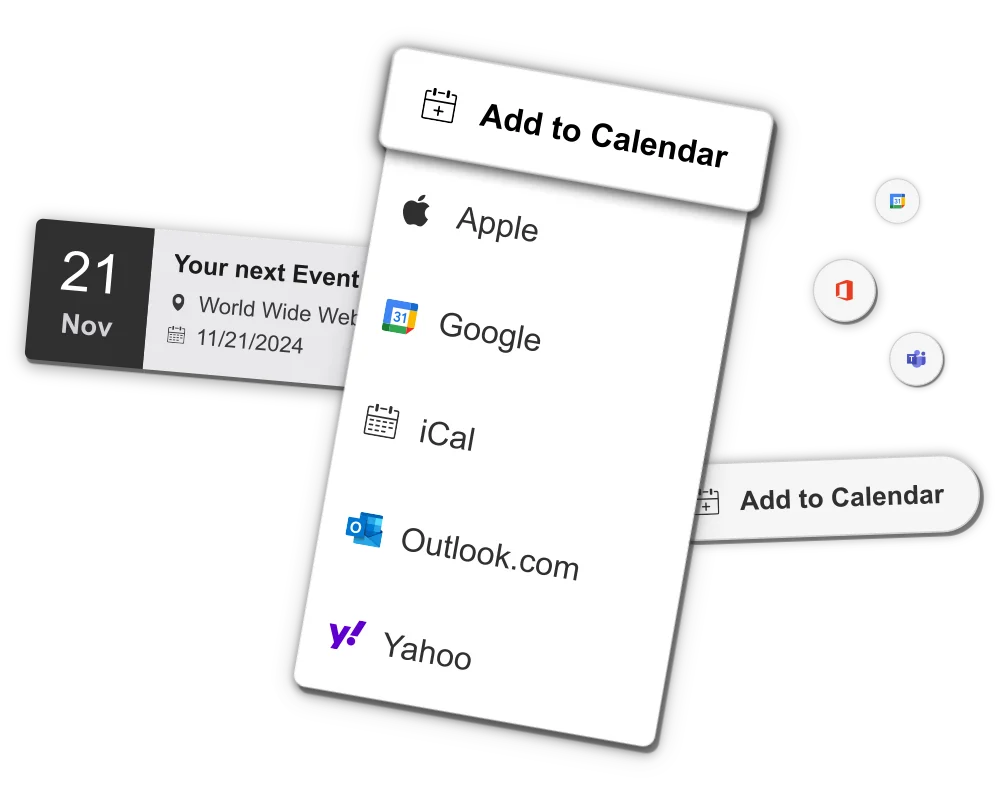
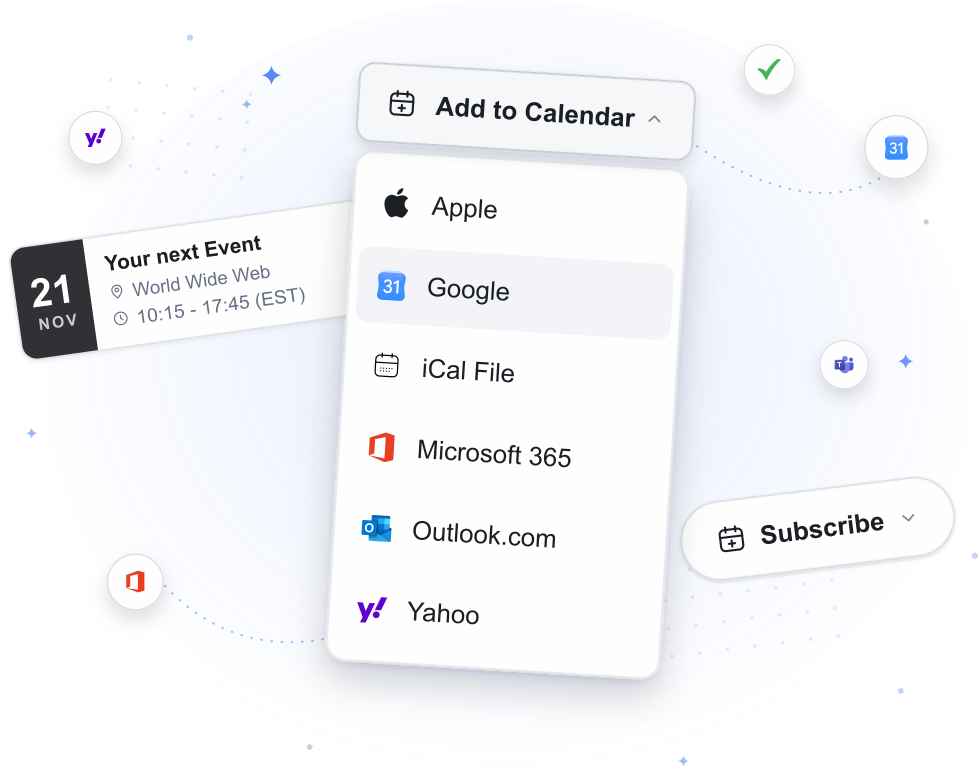
demo hero update

diff --git a/demo/components/hero.vue b/demo/components/hero.vue
@@ -37,8 +37,11 @@ const localePath = useLocalePath();
               </div>
             </div>
           </div>
-          <div class="hidden self-center p-14 lg:block xl:p-10">
-            <nuxt-img sizes="500px xl:600px" alt="Add to Calendar Button" width="1000" height="791" src="/assets/img/combo.webp" />
+          <div class="hidden h-96 self-center lg:block xl:hidden">
+            <nuxt-img sizes="500px xl:600px" alt="Add to Calendar Button" width="565" height="712" class="h-full w-full object-contain drop-shadow-lg" src="/assets/img/combo-slim.webp" />
+          </div>
+          <div class="hidden h-[450px] self-center p-5 xl:block">
+            <nuxt-img sizes="500px xl:600px" alt="Add to Calendar Button" width="978" height="774" class="h-full w-full object-contain drop-shadow-lg" src="/assets/img/combo.webp" />
           </div>
         </div>
       </div>
